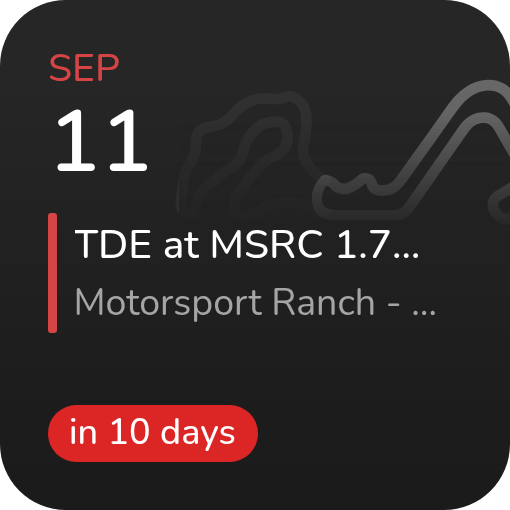
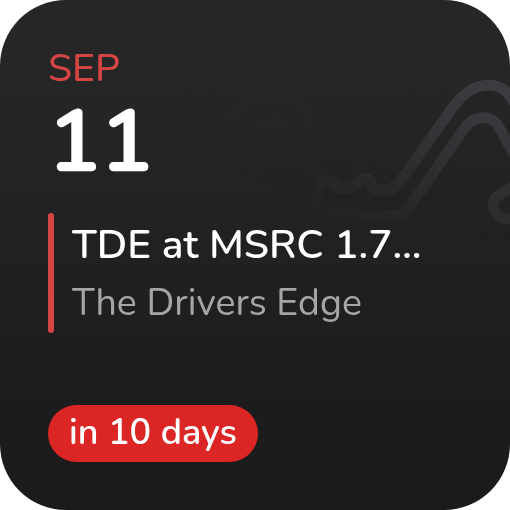
Widget: Small's track faded as its Figma design; heavier type, organizer (#204)
- The track is #646872 on a 35% layer, faded along the design's
  diagonal: fully there at its top right, gone by its bottom left. The
  fade uses the Figma fill's own gradient transform (node 2068:7914),
  drawn in 1pt cells of the ground's color. Medium keeps its
  top-to-bottom fade.
- The day is bold, and the name and badge are semibold, one step
  heavier than the design as asked in review.
- The line under the name is now the organizer, as the design has it
  (the track when there's no organizer).
- The red bar is 2pt wide.

Claude-Session: https://claude.ai/code/session_01SkFeD9MJgG612FqN72RSkT

diff --git a/scripts/hpde-widget.js b/scripts/hpde-widget.js
@@ -383,7 +383,7 @@ function palette(dark) {
 // The countdown badge is solid red with white text, the corner flag a
 // semi-transparent white, and the track shape toned down. Small follows
 // its Figma design (HPDE file, node 2068:7908): its month and the bar
-// beside the name are `accent`, its track name white at 60%.
+// beside the name are `accent`, its organizer white at 60%.
 const FEATURED_PALETTE = {
   fg: new Color("#ffffff"),
   muted: new Color("#6b7280"),
@@ -401,6 +401,12 @@ const FEATURED_PALETTE = {
   track: new Color("#ffffff", 0.3),
   trackGhost: new Color("#ffffff", 0.05),
   placeholder: new Color("#ffffff", 0.15),
+  // Small's track, as its design has it: gray-500-ish #646872 on a 35%
+  // layer (then faded, see SMALL_TRACK_FADE). The other configuration
+  // keeps Medium's ghost-to-track ratio; a track with no shape gets the
+  // placeholder flag in the track's own color.
+  smallTrack: new Color("#646872", 0.35),
+  smallTrackGhost: new Color("#646872", 0.06),
 }
 
 // The featured cards' ground: a near-black gradient, top to bottom,
@@ -1643,11 +1649,11 @@ const COUNTDOWN_TOKENS = {
   // (HPDE file, node 2068:7908), where the 155pt widget is 391px: 16pt
   // in from every edge, and less top and bottom when a status line
   // (e.g. "Cached schedule") has to fit under the badge. The name and
-  // track center on a `barH`-tall red bar.
+  // organizer center on a `barH`-tall red bar.
   small: {
     pad: 16, padWithFooter: 10,
     monthFont: 13, dayFont: 29, dateGap: 5,
-    barW: 2.5, barH: 40, barGap: 6,
+    barW: 2, barH: 40, barGap: 6,
     titleFont: 13.5, rowFont: 12.5, rowGap: 4,
     pillFont: 12, pillPadV: 2.5, pillPadH: 7,
   },
@@ -1766,45 +1772,78 @@ const TRACK_SHAPES = {
 }
 
 // The event's track shape (or, as in the app for a track with no icon,
-// a faint checkered flag) in white, `width` wide with its top left at
-// (x0, y0), faded into the ground over its bottom three quarters — the
-// app's `from-gray-900/0 to-gray-900` gradient. DrawContext has no
-// gradients, so the fade is strips of the ground's own color at that
-// height (`groundAt(y, alpha)`), each a little more opaque than the one
-// above. Shared by Medium's banner and Small's background.
-function drawTrackShape(ctx, trackId, x0, y0, width, F, groundAt) {
+// a checkered flag) `width` wide with its top left at (x0, y0), in the
+// colors `look` gives: { track, ghost, placeholder }. Returns its height.
+// Shared by Medium's banner and Small's background; each fades it its
+// own way after.
+function drawTrackShape(ctx, trackId, x0, y0, width, look) {
   const win = TRACK_SHAPE_WINDOW
   const scale = width / win.w
   const height = win.h * scale
   const shape = TRACK_SHAPES[trackId]
   if (shape) {
     for (const [opacity, d] of shape) {
-      ctx.setFillColor(opacity < 1 ? F.trackGhost : F.track)
+      ctx.setFillColor(opacity < 1 ? look.ghost : look.track)
       ctx.addPath(svgPathToPath(d, scale, win.x - x0 / scale, win.y - y0 / scale))
       ctx.fillPath()
     }
   } else {
-    // The app's placeholder: the checkered flag at 15%, 56.25% of the
-    // icon's size, centered.
+    // The app's placeholder: the checkered flag, 56.25% of the icon's
+    // size, centered.
     const [vw, vh] = CHECKERED_FLAG_VIEWBOX
     const flagW = 437 * 0.5625 * scale
     const flagScale = flagW / vw
     const ox = -(x0 + (width - flagW) / 2) / flagScale
     const oy = -(y0 + (height - vh * flagScale) / 2) / flagScale
-    ctx.setFillColor(F.placeholder)
+    ctx.setFillColor(look.placeholder)
     for (const d of CHECKERED_FLAG_PATHS) {
       ctx.addPath(svgPathToPath(d, flagScale, ox, oy))
       ctx.fillPath()
     }
   }
-  // 1pt strips on whole points (whole pixels at any screen scale), so
-  // no two overlap: an overlap doubles the alpha and shows as a line.
+  return height
+}
+
+// DrawContext has no gradients, so a fade is drawn over the shape: the
+// ground's own color (`groundAt(y, alpha)`) at a rising alpha. On whole
+// points (whole pixels at any screen scale), so no two pieces overlap:
+// an overlap doubles the alpha and shows as a line.
+//
+// Medium: into the ground over the shape's bottom three quarters — the
+// app's `from-gray-900/0 to-gray-900` gradient — in 1pt strips.
+function fadeTrackDown(ctx, x0, y0, width, height, groundAt) {
   const fadeTop = Math.round(y0 + height / 4)
   const bottom = y0 + height
   for (let y = fadeTop; y < bottom; y++) {
     const f = Math.min(1, (y + 1 - fadeTop) / (bottom - fadeTop))
     ctx.setFillColor(groundAt(y, f))
     ctx.fillRect(new Rect(x0, y, width, Math.min(1, bottom - y)))
+  }
+}
+
+// Small: along the diagonal its design's gradient runs — all there at
+// the shape's top right, gone by its bottom left. The fade's progress
+// across the shape's box (u, v from 0 to 1) is t = a·u + b·v + c: the
+// first row of the Figma fill's gradientTransform (HPDE file, node
+// 2068:7914). In 1pt cells, a row's run of cells at the same alpha
+// drawn as one rect; `right` is the canvas edge the shape runs off.
+const SMALL_TRACK_FADE = { a: -0.9994, b: 0.7678, c: 0.6786 }
+function fadeTrackDiagonally(ctx, x0, y0, width, height, right, groundAt) {
+  const { a, b, c } = SMALL_TRACK_FADE
+  const alphaAt = (x, y) =>
+    Math.round(Math.max(0, Math.min(1, a * (x + 0.5 - x0) / width + b * (y + 0.5 - y0) / height + c)) * 100) / 100
+  for (let y = Math.floor(y0); y < Math.ceil(y0 + height); y++) {
+    let x = Math.floor(x0)
+    while (x < right) {
+      const alpha = alphaAt(x, y)
+      let end = x + 1
+      while (end < right && alphaAt(end, y) === alpha) end++
+      if (alpha > 0) {
+        ctx.setFillColor(groundAt(y, alpha))
+        ctx.fillRect(new Rect(x, y, end - x, 1))
+      }
+      x = end
+    }
   }
 }
 
@@ -1819,14 +1858,15 @@ function trackBannerImage(trackId, width, F, top) {
   ctx.size = new Size(width, height)
   ctx.respectScreenScale = true
   ctx.opaque = false
-  drawTrackShape(ctx, trackId, 0, 0, width, F,
+  drawTrackShape(ctx, trackId, 0, 0, width, { track: F.track, ghost: F.trackGhost, placeholder: F.placeholder })
+  fadeTrackDown(ctx, 0, 0, width, height,
     (y, alpha) => featuredGround((top + y) / FEATURED_GROUND_HEIGHT, alpha))
   return { image: ctx.getImage(), width, height }
 }
 
 // Small's background: the ground, then the track shape across its top
 // right, running off the edge — where the design puts it, as fractions
-// of the widget (SMALL_TRACK). A widget's background image fills it, so
+// of the widget (SMALL_TRACK) — faded along its diagonal. A widget's background image fills it, so
 // it's drawn once, square, at the largest Small widget's size, and
 // scales to the others.
 const SMALL_GROUND_SIZE = 170
@@ -1843,7 +1883,12 @@ function smallGroundImage(trackId, F) {
     ctx.setFillColor(groundAt(y, 1))
     ctx.fillRect(new Rect(0, y, S, 1))
   }
-  drawTrackShape(ctx, trackId, SMALL_TRACK.x * S, SMALL_TRACK.y * S, SMALL_TRACK.w * S, F, groundAt)
+  const x0 = SMALL_TRACK.x * S
+  const y0 = SMALL_TRACK.y * S
+  const width = SMALL_TRACK.w * S
+  const look = { track: F.smallTrack, ghost: F.smallTrackGhost, placeholder: F.smallTrack }
+  const height = drawTrackShape(ctx, trackId, x0, y0, width, look)
+  fadeTrackDiagonally(ctx, x0, y0, width, height, S, groundAt)
   return ctx.getImage()
 }
 
@@ -2017,7 +2062,9 @@ function renderFeaturedCountdown(w, next) {
 // 2068:7908). The track shape sits behind the date in the top right,
 // in the widget's background image with the ground (see
 // smallGroundImage). Over it: the month over the day, left-aligned;
-// the name over the track beside a red bar; the badge at the bottom.
+// the name over the organizer beside a red bar; the badge at the
+// bottom. The day, name and badge are a weight heavier than the
+// design's (#204 review).
 // Each row ends in a flex spacer, which pins it to the left edge.
 function renderSmallCountdown(w, next, footer) {
   const F = FEATURED_PALETTE
@@ -2039,7 +2086,7 @@ function renderSmallCountdown(w, next, footer) {
   month.textColor = F.accent
   month.lineLimit = 1
   const day = date.addText(String(d))
-  day.font = rSemiboldFont(t.dayFont)
+  day.font = rBoldFont(t.dayFont)
   day.textColor = F.fg
   day.lineLimit = 1
   dateRow.addSpacer()
@@ -2056,15 +2103,17 @@ function renderSmallCountdown(w, next, footer) {
   col.layoutVertically()
   col.topAlignContent()
   const title = col.addText(next.event.name)
-  title.font = rMediumFont(t.titleFont)
+  title.font = rSemiboldFont(t.titleFont)
   title.textColor = F.fg
   title.lineLimit = 1
-  if (next.event.track) {
+  // The organizer, as the design has it (the track, if there's none).
+  const byline = next.event.organizer || next.event.track
+  if (byline) {
     col.addSpacer(t.rowGap)
-    const track = col.addText(next.event.track)
-    track.font = rFont(t.rowFont)
-    track.textColor = F.subtle
-    track.lineLimit = 1
+    const by = col.addText(byline)
+    by.font = rFont(t.rowFont)
+    by.textColor = F.subtle
+    by.lineLimit = 1
   }
   block.addSpacer()
 
@@ -2175,7 +2224,7 @@ function addCountdownInfo(row, p, next, t, rich) {
 
 // "IN 9 DAYS" — styled like the app's LIVE badge beside an event name
 // (StatusBadge): a small uppercase pill, red on a faint red tint.
-// Small's design sets it in lowercase, "in 9 days", in medium weight.
+// Small's design sets it in lowercase, "in 9 days".
 function addCountdownPill(row, days, bg, fg, t, lowercase = false) {
   const pill = row.addStack()
   pill.backgroundColor = bg
@@ -2184,7 +2233,7 @@ function addCountdownPill(row, days, bg, fg, t, lowercase = false) {
   pill.centerAlignContent()
   const text = `in ${days} ${pluralize(days, "day")}`
   const label = pill.addText(lowercase ? text : text.toUpperCase())
-  label.font = lowercase ? rMediumFont(t.pillFont) : rSemiboldFont(t.pillFont)
+  label.font = rSemiboldFont(t.pillFont)
   label.textColor = fg
   label.lineLimit = 1
 }

diff --git a/scripts/hpde-widget.test.ts b/scripts/hpde-widget.test.ts
@@ -366,11 +366,12 @@ describe('scriptable widget loads and renders', () => {
     await expect(runWidget('large', FUTURE_MANIFEST)).resolves.toBeUndefined()
   })
 
-  it('drops the city from the location row on Small so it never truncates the track name', async () => {
-    await runWidget('small', UPCOMING_MULTI_MANIFEST)
+  it('shows the track on Small when there is no organizer, without its city', async () => {
+    const noOrg = { events: [{ ...UPCOMING_MULTI_MANIFEST.events[0], organizer: undefined }] }
+    await runWidget('small', noOrg)
     const texts = (globalThis as any).__texts as string[]
     expect(texts).toContain('Track A')
-    expect(texts).not.toContain('Track A, City A')
+    expect(texts.some(t => t.includes('City A'))).toBe(false)
   })
 
   it('shows the track alone on Large, like the app\'s Location row (city is only its subtitle there)', async () => {
@@ -382,10 +383,11 @@ describe('scriptable widget loads and renders', () => {
     }
   })
 
-  it('leaves the organizer off Small, as its design does', async () => {
+  it('shows the organizer, not the track, under the name on Small, as its design does', async () => {
     await runWidget('small', UPCOMING_MULTI_MANIFEST)
     const texts = (globalThis as any).__texts as string[]
-    expect(texts).not.toContain('Org A')
+    expect(texts).toContain('Org A')
+    expect(texts).not.toContain('Track A')
   })
 
   it('keeps the organizer row on Medium/Large, where there is room for it', async () => {
@@ -461,17 +463,17 @@ describe('scriptable widget loads and renders', () => {
     expect(texts.some(t => t.includes('Monday'))).toBe(false)
   })
 
-  it("lays Small out as its design: month over day, name over track, then the badge", async () => {
+  it("lays Small out as its design: month over day, name over organizer, then the badge", async () => {
     await runWidget('small', UPCOMING_MULTI_MANIFEST)
     const texts = (globalThis as any).__texts as string[]
     const [, m, d] = isoDate(10).split('-').map(Number)
     const months = ['JAN', 'FEB', 'MAR', 'APR', 'MAY', 'JUN', 'JUL', 'AUG', 'SEP', 'OCT', 'NOV', 'DEC']
-    // Nothing else — no header, organizer or countdown well — but the
+    // Nothing else — no header, track or countdown well — but the
     // status line (these mocks are offline, so the schedule is cached).
-    expect(texts).toEqual([months[m - 1], String(d), 'Upcoming A', 'Track A', 'in 10 days', 'Cached schedule'])
+    expect(texts).toEqual([months[m - 1], String(d), 'Upcoming A', 'Org A', 'in 10 days', 'Cached schedule'])
   })
 
-  it("draws Small's ground and track into its background, faded like Medium's", async () => {
+  it("draws Small's ground and track into its background, faded along the design's diagonal", async () => {
     const withTrack = (trackId?: string) => ({
       events: [{ ...UPCOMING_MULTI_MANIFEST.events[0], ...(trackId ? { trackId } : {}) }],
     })
@@ -495,12 +497,13 @@ describe('scriptable widget loads and renders', () => {
     expect(g.opaque).toBe(true)
     expect(g.rectColors[0]).toEqual({ hex: '#262626', alpha: 1 })
     expect(g.rectColors[169]).toEqual({ hex: '#1b1b1b', alpha: 1 })
-    // ...then the fade: strips of the ground's color, more opaque going
-    // down, ending fully opaque.
+    // ...then the fade: cells of the ground's color over the shape,
+    // clear at its top right and fully opaque by its bottom left.
     const fade = g.rectColors.slice(170)
-    expect(fade.length).toBeGreaterThan(30)
-    for (let i = 1; i < fade.length; i++) expect(fade[i].alpha).toBeGreaterThanOrEqual(fade[i - 1].alpha)
-    expect(fade[fade.length - 1].alpha).toBe(1)
+    expect(fade.length).toBeGreaterThan(100)
+    expect(fade.every(c => c.alpha > 0 && c.alpha <= 1)).toBe(true)
+    expect(fade.some(c => c.alpha < 0.2)).toBe(true)
+    expect(fade.some(c => c.alpha === 1)).toBe(true)
   })
 
   it("gives Medium the same ground as Small: the design's gradient, top to bottom", async () => {
@@ -905,7 +908,7 @@ describe('design guardrails (static source checks)', () => {
     }
     const small = bodyOf('renderSmallCountdown')
     const texts = small.match(/const (\w+) = \w+\.addText\(/g)!.map(m => m.split(' ')[1])
-    expect(texts).toEqual(['month', 'day', 'title', 'track'])
+    expect(texts).toEqual(['month', 'day', 'title', 'by'])
     for (const t of texts) expect(small).toMatch(new RegExp(`${t}\\.lineLimit\\s*=\\s*1\\b`))
     expect(bodyOf('addCountdownPill')).toMatch(/label\.lineLimit\s*=\s*1/)
   })
